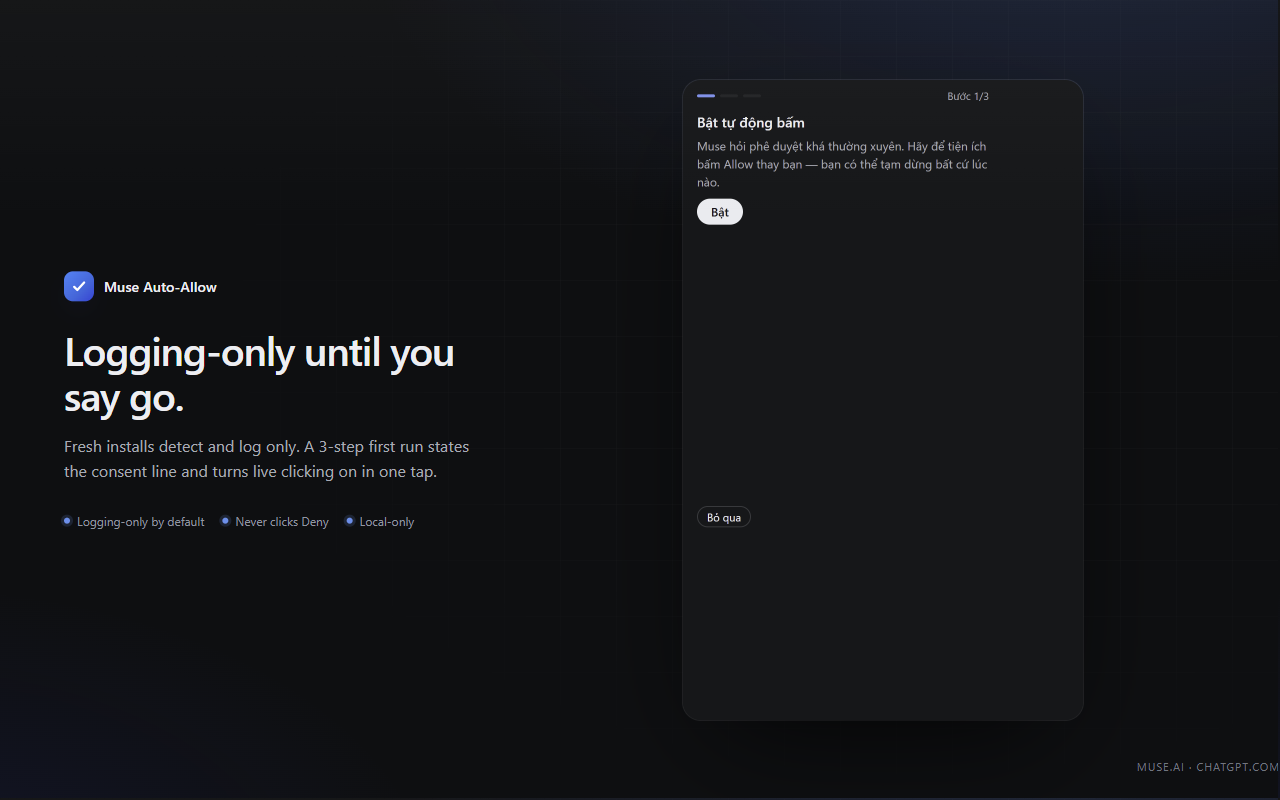
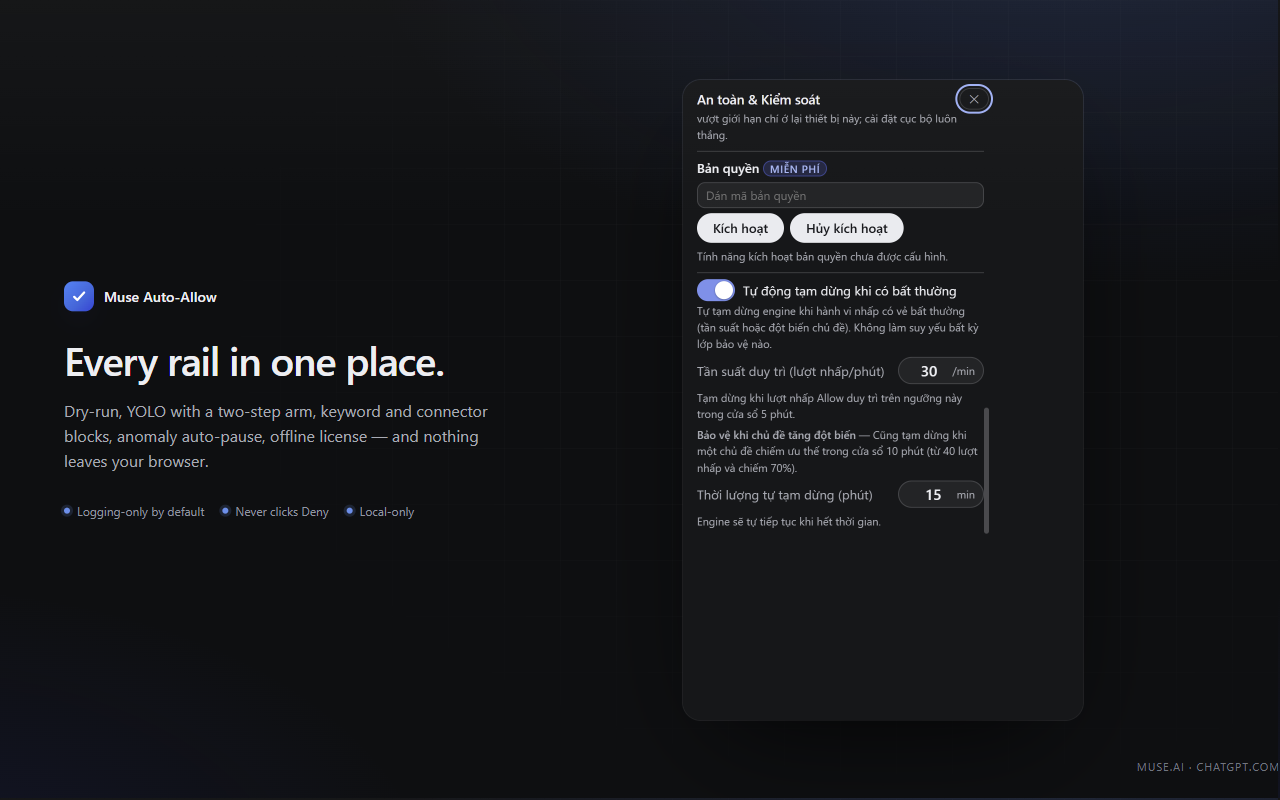
store kit v1.21.0: refresh screenshots from the real UI (safety panel shows anomaly guard + license), LISTING 1.21.0 + what's-new; qa-experience +O full-button clipped-text sweep (38/38); ledger/GOLIVE updates

Changed region(s): [[0.5312, 0.0938, 0.7812, 0.6562], [0.0312, 0.3438, 0.375, 0.5938], [0.0312, 0.625, 0.3438, 0.6562]]

diff --git a/store/LISTING.md b/store/LISTING.md
@@ -15,7 +15,7 @@ dashboard (no repo value to fill).
 | Item name | **Muse Auto-Allow** |
 | Category | **Productivity** |
 | Default language | English (en) |
-| Version | 1.18.0 |
+| Version | 1.21.0 |
 | Manifest version | Manifest V3 |
 | Extension package | `dist/muse-auto-allow-v1.18.0.zip` |
 | License | MIT © 2026 BlueSkyz Labs |
@@ -628,7 +628,7 @@ The dashboard requires these images. Provide them at the exact sizes below.
 | Asset | Requirement | Source in this repo | Status |
 |---|---|---|---|
 | Extension icon | 128×128 px PNG | `extension/icons/icon128.png` | ✅ present |
-| Screenshots | 1280×800 px PNG (up to 5) | `store/screenshot1.png` (live runtime capture), `store/screenshot2-stats.png` (Statistics), `store/screenshot3-popup.png` (popup on stage), `store/screenshot4-overview.png` (designed overview), `store/screenshot5-safety.png` (first-run safety step: logging-only statement, consent line, one-tap live clicking) | ✅ 5 present, all verified 1280×800 |
+| Screenshots | 1280×800 px PNG (up to 5) | `store/screenshot1.png` (live runtime capture, v1.21.0), `store/screenshot2-stats.png` (Statistics), `store/screenshot3-popup.png` (popup on stage), `store/screenshot4-overview.png` (designed overview), `store/screenshot5-safety.png` (Safety & Control panel: anomaly auto-pause + license, v1.21.0) | ✅ 5 present, all verified 1280×800 |
 | Small promo tile | 440×280 px PNG | `store/promo440x280.png` | ✅ present (verified 440×280) |
 | Marquee promo tile | 1400×560 px (optional) | `store/marquee1400x560.png` | ✅ present (verified 1400×560) |
 
@@ -643,6 +643,12 @@ Chrome from the package), the five 1280×800 screenshots, the 440×280 promo til
 Screenshot guidance (verify before submit that the uploaded images match these sizes): show the real Muse approval card with the extension's popup open
 (click counter + log visible). Do **not** use a mockup that implies the extension does
 anything beyond its single purpose, and do not put misleading wording in the image.
+**What's new (1.19–1.21):** screened log with day groups, filters and search · an anomaly
+guard that pauses the engine by itself on a sustained rate or a topic spike (it can only ADD a
+pause) · a daily briefing in the popup (top block reason + 7-day trend) · **Mission Playbooks**:
+parameterised, previewed playbook runs (`{{project}}`/`{{branch}}`) with per-playbook narrowing
+guards · an **offline license** block (inert until activation; no network verification).
+
 A second image (`store/screenshot2-stats.png`, 1280x800) shows the Statistics page with
 real chart data; it must stay a truthful capture (the numbers come from the extension's
 own local storage).

diff --git a/docs/GOLIVE_PAID_READINESS.md b/docs/GOLIVE_PAID_READINESS.md
@@ -6,6 +6,17 @@
 > (`SELLER_AUTHORITY` / `PRODUCT_ELIGIBILITY` / Paid-GO are Owner gates). Nothing in this dossier
 > changes extension behavior by itself.
 
+## Cập nhật 2026-10-19 (v1.21.0)
+
+- **W3 (G02 Mission Playbooks) và W4 (lõi giấy phép dormant) đã xong** — toàn bộ catalog được
+  duyệt (W1→W4) hoàn tất; gói v1.21.0 đã chốt (245.614 B, sha `2afe1f06…`), phát hành kèm bằng chứng.
+- Chiều PAID tiến thêm: mô-đun giấy phép ngoại tuyến đã sẵn sàng nhưng **vẫn dormant** — chờ
+  nghi thức khoá + giá/kênh (Owner). Cổng lint "khoá không lọt bản phát hành" đã được kiểm chứng
+  bằng đột biến (literal + base64).
+- Store kit đã đồng bộ v1.21.0: 4/5 ảnh cửa hàng làm mới từ UI thật (khung Safety trưng anomaly
+  guard + license), LISTING v1.21.0 + mục "What's new (1.19–1.21)".
+- Còn lại là **cổng chủ sở hữu**: tải CWS · giá/kênh · nghi thức khoá (khi mở PAID) · nâng pin SGPS.
+
 ## 1. Grounded facts (E0 — desk research, verifiable)
 
 1. **Chrome Web Store payments are dead and cannot be used.** Google deprecated CWS payments in

diff --git a/docs/RELEASE_INTEGRITY.md b/docs/RELEASE_INTEGRITY.md
@@ -75,8 +75,8 @@ Same procedure (version `1.21.0`; build → hash → rebuild identical; sidecar 
   anomaly-unit 11 · **mission-playbook-unit 10 (NEW)** · **license-unit 16 (NEW, +L4b)** ·
   background-unit 0 (+L1 license scripts are popup-local) · import-security **169/0** (+13 W4/
   mirror) · yolo-ux 0 · e2e 0 `ok:true` · followup-e2e 113/0 · mission-e2e **37/0** (+G02-A..E) ·
-  lang-switch 255×6 · codex-e2e · bench · QA v1.14.0 8/8 · `qa-experience` **37/37** (+N1/N2
-  license-dormant UI checks).
+  lang-switch 255×6 · codex-e2e · bench · QA v1.14.0 8/8 · `qa-experience` **38/38** (+N1/N2
+  license-dormant UI checks, +O full-button clipped-text sweep at locale vi).
 - **Independent audit round (MAKER≠JUDGE)**: three read-only subagent audits (G02 / W4 / an e2e
   stall diagnosis) returned 6 findings, all fixed before freeze — W4-1 tier allowlist (+L4b
   test), W4-2 chip reset before await, W4-3 monotonic `lastSeenAt` (60 s write threshold), W4-4
